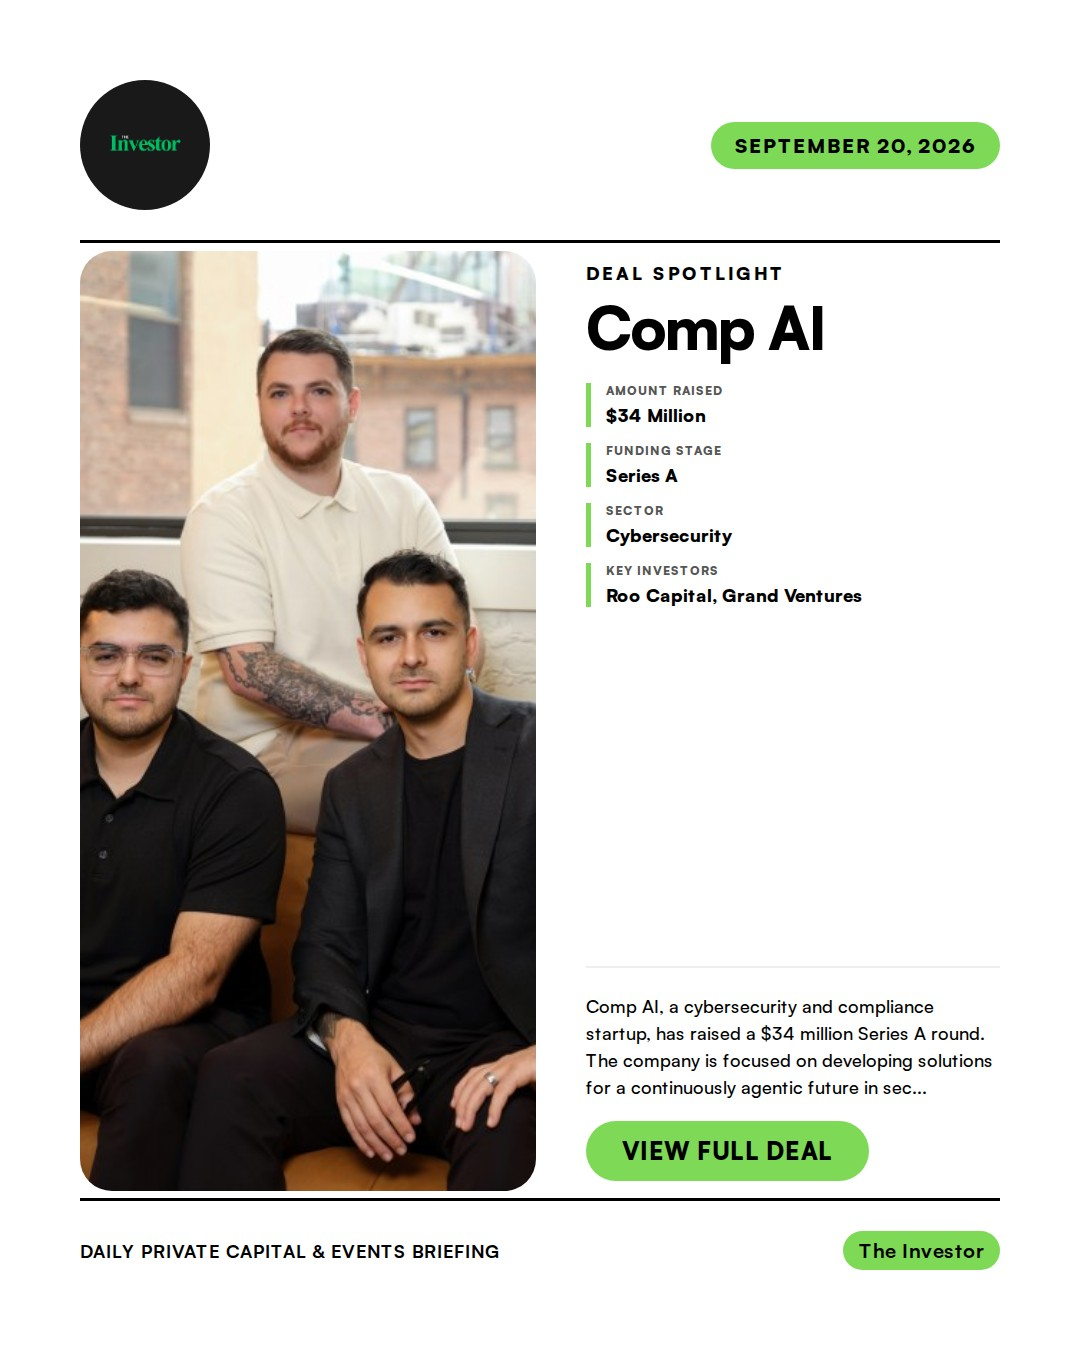
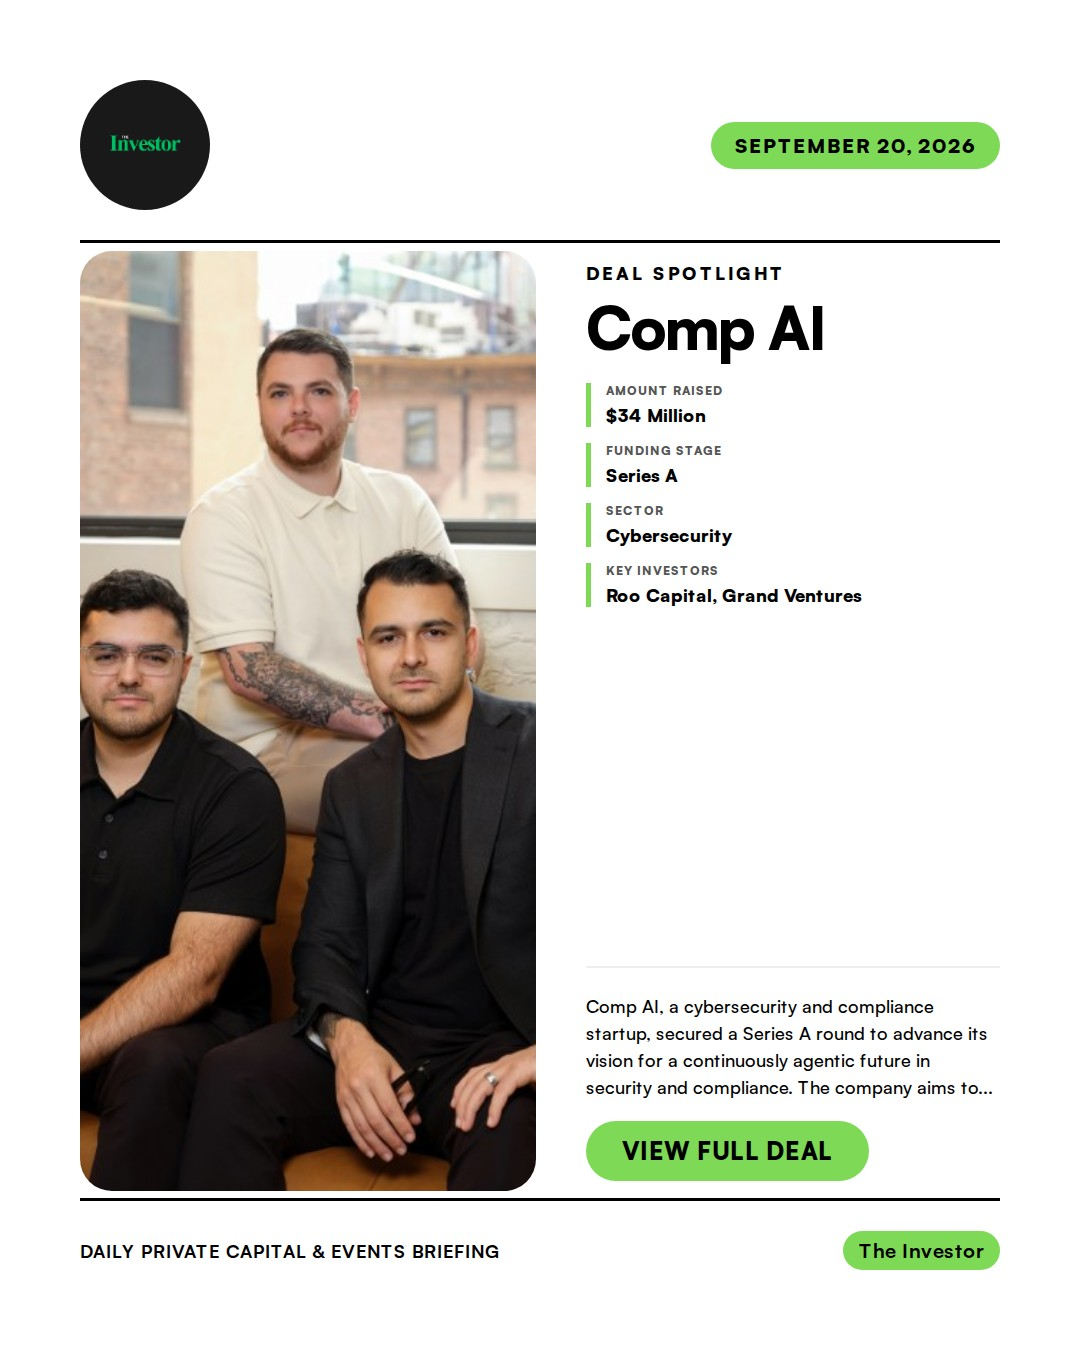
docs: Add daily news report 2026-09-20

Changed region(s): [[0.5194, 0.7467, 0.9167, 0.8089]]

diff --git a/NewsReport/2026-09-20-news-report.md b/NewsReport/2026-09-20-news-report.md
@@ -7,48 +7,48 @@
 
 ## 1. Crusoe: $3.9 Billion Series F
 
-- **Summary**: Crusoe, an AI infrastructure provider, has secured a $3.9 billion Series F funding round, which triples its valuation to $30.9 billion. The company builds massive data centers and small modular 'AI factories,' focusing on an energy-first strategy to provide AI-optimized cloud platforms. Crusoe's projects include developing data centers for major tech firms like Oracle (for OpenAI) and Microsoft, with a significant emphasis on rapid deployment of computing resources.
+- **Summary**: Crusoe, a vertically-integrated AI infrastructure provider, raised a significant Series F round at a $30.9 billion post-money valuation. The company builds massive data centers and modular 'AI factories' to power AI workloads. The funding will support scaling existing programs and building out its AI factories and Crusoe Cloud.
 - **Key Points**:
-  1. Investors: Atreides Management, Mubadala Capital, Valor Equity Partners, Founders Fund, GIC, Nvidia Corp., Qatar Investment Authority (QIA), Radical Ventures, TPG, Baillie Gifford, Fidelity Management & Research, Tiger Global, Salesforce Ventures, ARK Invest, Robinhood Ventures Fund
-  2. Sector keywords: AI, data centers, infrastructure, energy, cloud computing
+  1. Investors: Atreides Management, Mubadala Capital, Valor Equity Partners, Founders Fund, GIC, NVIDIA, Qatar Investment Authority (QIA), Radical Ventures, TPG
+  2. Sector keywords: AI infrastructure, data centers, clean energy, AI factories
 - **Source**: [TechCrunch](https://techcrunch.com/2026/09/17/crusoe-raises-3-9b-to-build-massive-data-centers-and-small-modular-ai-factories/)
-- **Keywords**: `AI, data centers, infrastructure, energy, cloud computing`
+- **Keywords**: `AI infrastructure` `data centers` `clean energy` `AI factories`
 - **Score**: ⭐⭐⭐⭐⭐ (5/5)
 
 ---
 
-## 2. Comp AI: $34 Million Series A
+## 2. Evvy: $40 Million Series B
 
-- **Summary**: Comp AI, a cybersecurity and compliance startup, has raised a $34 million Series A round. The company is focused on developing solutions for a continuously agentic future in security and compliance. This funding will support its efforts in advancing cybersecurity technologies.
-- **Key Points**:
-  1. Investors: Roo Capital, Grand Ventures
-  2. Sector keywords: cybersecurity, AI, compliance, SaaS
-- **Source**: [TechCrunch](https://techcrunch.com/2026/09/17/comp-ai-sets-eyes-on-a-continiously-agentic-future-for-security-and-complaince/)
-- **Keywords**: `cybersecurity, AI, compliance, SaaS`
-- **Score**: ⭐⭐⭐ (3/5)
-
----
-
-## 3. Evvy: $40 Million Series B
-
-- **Summary**: Evvy, a women's health company, has successfully raised $40 million in a Series B funding round. The company is dedicated to advancing women's health research, particularly through the use of vaginal microbiome data. This investment will enable Evvy to further its research and development efforts in this critical area.
+- **Summary**: Evvy, a women’s health company, raised a Series B round to further women's health research by utilizing vaginal microbiome data. The company is focused on advancing scientific understanding and developing solutions in a critical area of healthcare.
 - **Key Points**:
   1. Investors: Catalio Capital Management
-  2. Sector keywords: women's health, biotech, healthtech, microbiome
+  2. Sector keywords: women's health, biotech, microbiome, healthtech
 - **Source**: [TechCrunch](https://techcrunch.com/2026/09/15/evvy-raises-40m-as-it-seeks-to-further-womens-health-research-with-vaginal-microbiome-data/)
-- **Keywords**: `women's health, biotech, healthtech, microbiome`
+- **Keywords**: `women's health` `biotech` `microbiome` `healthtech`
+- **Score**: ⭐⭐⭐⭐ (4/5)
+
+---
+
+## 3. Comp AI: $34 Million Series A
+
+- **Summary**: Comp AI, a cybersecurity and compliance startup, secured a Series A round to advance its vision for a continuously agentic future in security and compliance. The company aims to provide innovative solutions in the rapidly evolving cybersecurity landscape.
+- **Key Points**:
+  1. Investors: Roo Capital, Grand Ventures
+  2. Sector keywords: cybersecurity, compliance, AI, SaaS
+- **Source**: [TechCrunch](https://techcrunch.com/2026/09/17/comp-ai-sets-eyes-on-a-continiously-agentic-future-for-security-and-complaince/)
+- **Keywords**: `cybersecurity` `compliance` `AI` `SaaS`
 - **Score**: ⭐⭐⭐ (3/5)
 
 ---
 
-## 4. Aeon: $1 Million Preseed
+## 4. Aeon: $1 Million Seed
 
-- **Summary**: Aeon, a Nigerian cybersecurity startup, secured $1 million in pre-seed funding to develop Africa's cyber defence layer. The company aims to build cyberdefence solutions for high-trust organizations across the Global South. Aeon offers products like Aeon Edge, a hardware security device, and Aeon Console, an AI-driven platform for monitoring and compliance, and is expanding its business development and commercializing pilots.
+- **Summary**: Aeon, an African cybersecurity startup, secured a $1 million seed round to build Africa’s cyber defense layer. The funding will be used to develop its cybersecurity products, expand business development, and convert existing pilots into commercial deployments with financial services and cloud infrastructure companies.
 - **Key Points**:
-  1. Investors: Terra Industries, Resilience17, DFS Labs, Kaleo Ventures, Seedstars, Ajim Capital
-  2. Sector keywords: cybersecurity, Africa, SaaS, B2B
+  1. Investors: Terra Industries
+  2. Sector keywords: cybersecurity, Africa, fintech, B2B SaaS
 - **Source**: [TechCabal](https://techcabal.com/2026/09/18/terra-industries-leads-1m-round-in-aeon/)
-- **Keywords**: `cybersecurity, Africa, SaaS, B2B`
+- **Keywords**: `cybersecurity` `Africa` `fintech` `B2B SaaS`
 - **Score**: ⭐⭐⭐ (3/5)
 
 ---
